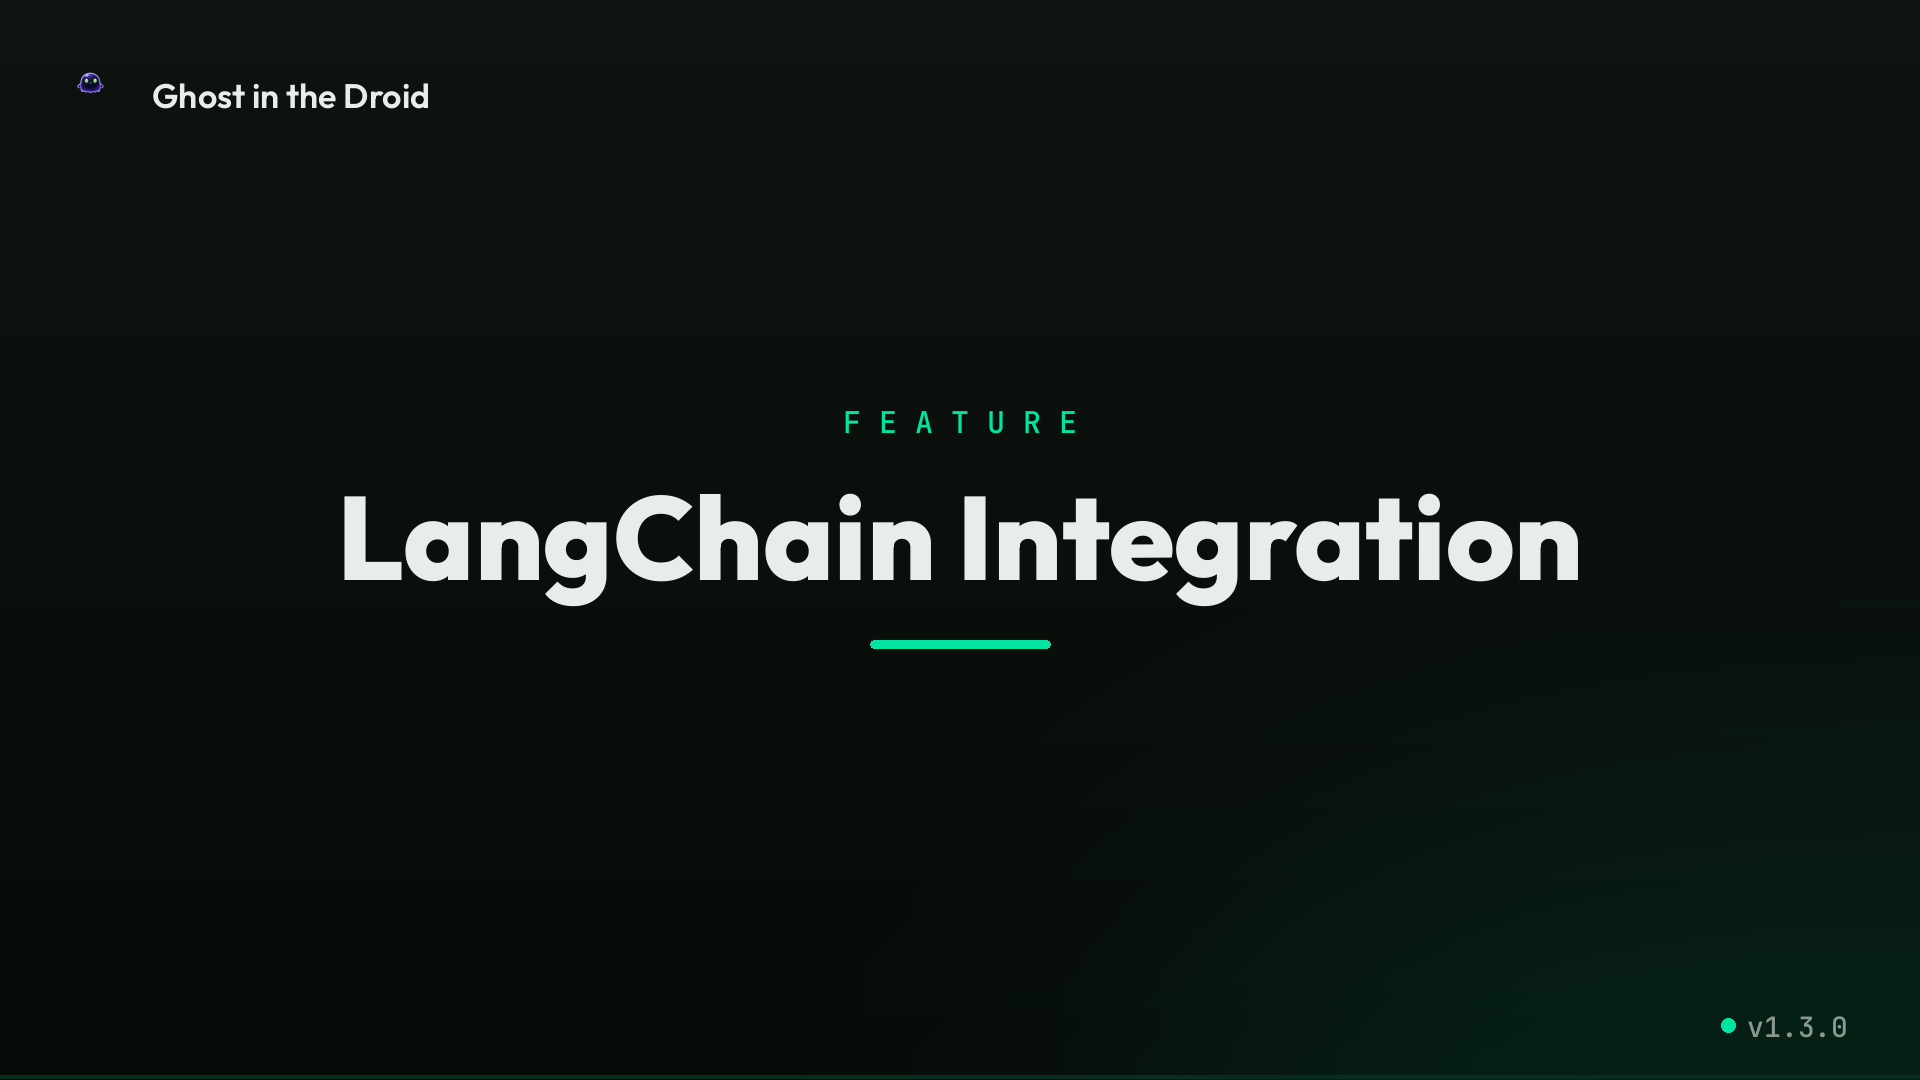
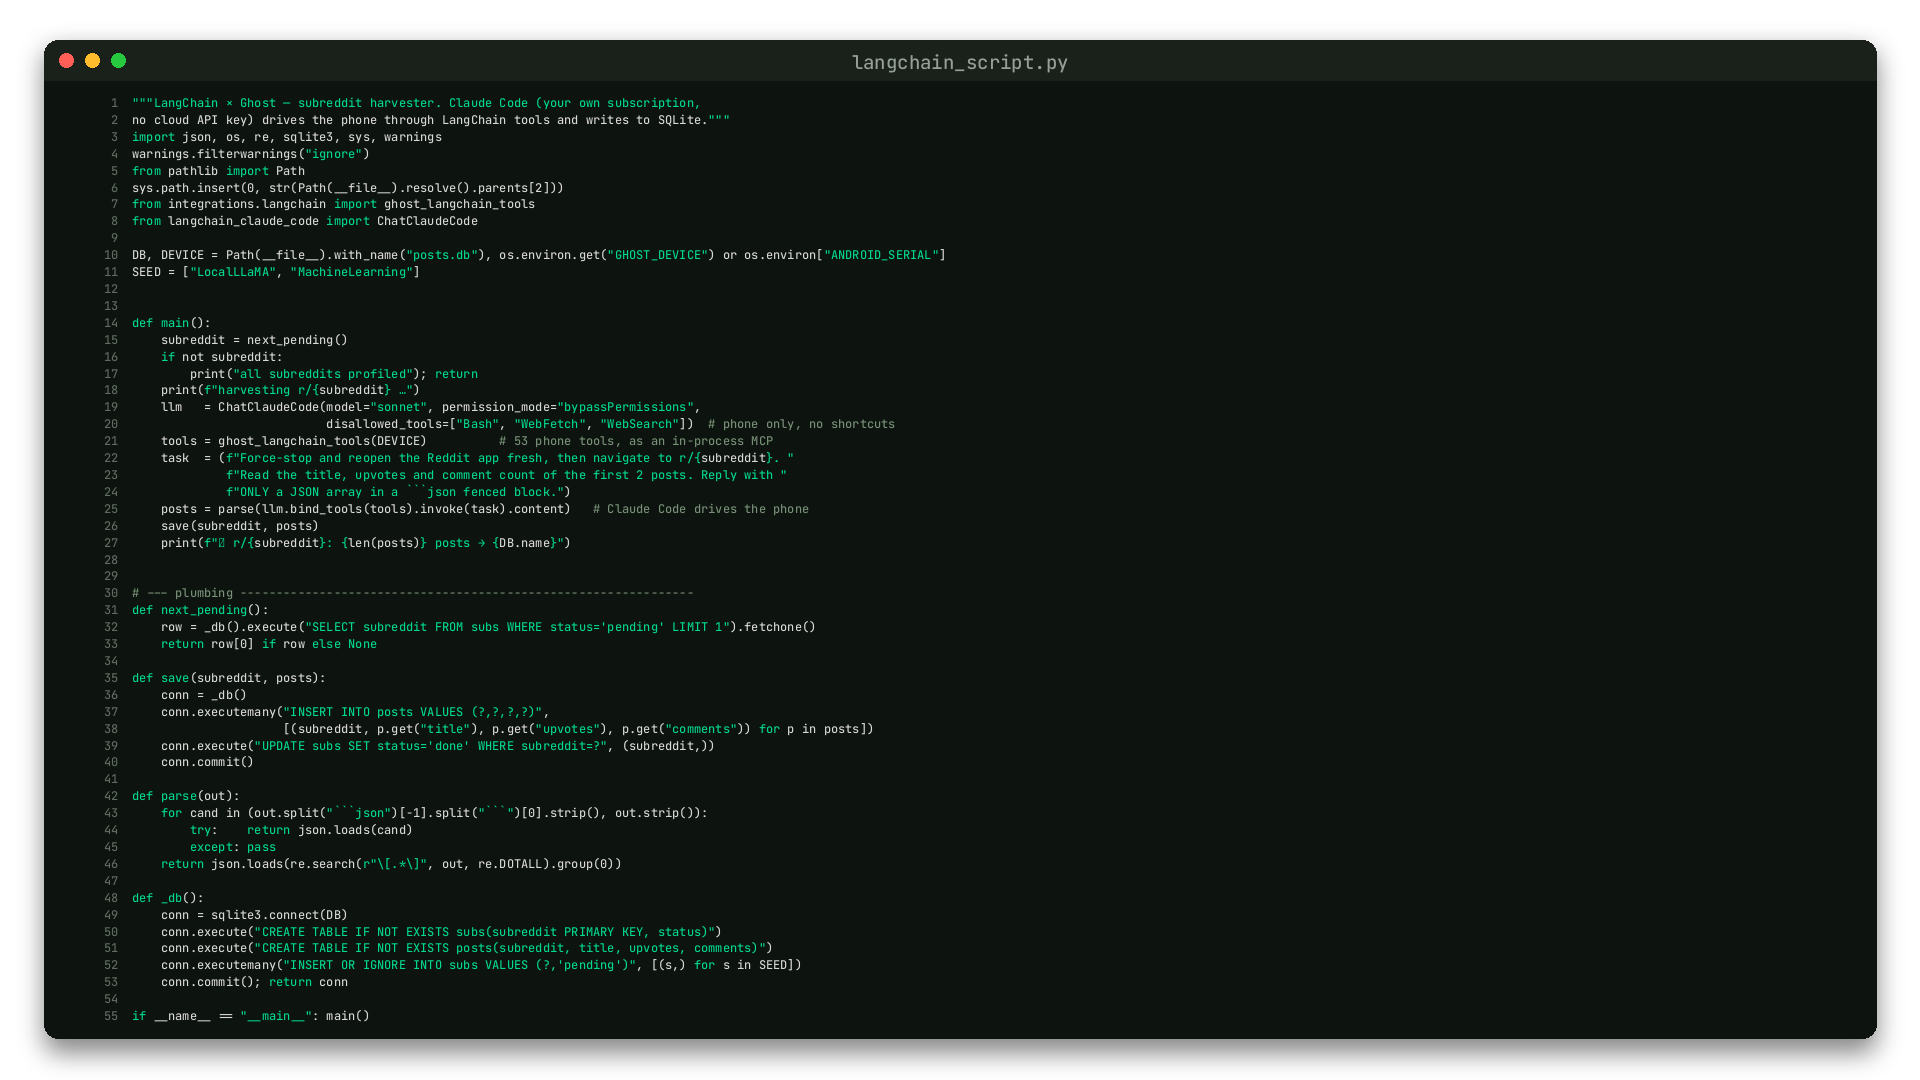
langchain demo: live-render code pane, regen intro, fix loop reliability
- record_demo: LIVE-RENDER the code pane from code_pane_source every record
  (render_codepane.py) — a baked asset can never go stale against the script again
- render_codepane.py: draw the def main() segment (or --full) as a macOS window in
  the Ghost-green palette; auto-fits the current source
- Regenerate intro (motion + static) from the current script — kills the old
  OpenRouter/create_react_agent reveal that was still shipping
- langchain_script: parse() returns [] instead of crashing on a no-JSON reply
- spec: reset the HOST posts.db in the loop exec_cmd (setup shell runs on-device,
  so it never cleared it) — run 1 now gets LocalLLaMA, run 2 MachineLearning

diff --git a/scripts/showcase/render_codepane.py b/scripts/showcase/render_codepane.py
@@ -1,0 +1,150 @@
+#!/usr/bin/env python3
+"""Live-render the showcase code pane from source.
+
+Draws the ``def main()`` segment of a Python file as a macOS-style terminal
+window PNG, so the code pane in a demo can never drift out of sync with the
+script it is supposed to mirror (the old baked asset silently shipped an
+OpenRouter version of the code long after the script had moved on).
+
+Usage:  render_codepane.py <source.py> <out.png> [--title NAME]
+Geometry + palette match codepane-langchain-v3.png so the compositor is unchanged.
+"""
+import sys
+from pathlib import Path
+
+from PIL import Image, ImageDraw, ImageFilter, ImageFont
+from pygments import lex
+from pygments.lexers import PythonLexer
+from pygments.token import Comment, Keyword, Name, Number, String
+
+REPO = Path(__file__).resolve().parents[2]
+FONT_PATH = REPO / "site/public/showcase/_brand/fonts/JetBrainsMono[wght].ttf"
+
+# Ghost-brand palette, sampled straight from the shipped assets.
+BG      = (13, 19, 14)      # window / code background
+TITLE   = (26, 33, 27)      # title bar
+TEXT    = (216, 216, 216)   # default code text
+GREEN   = (0, 216, 144)     # keywords, strings, def-names (brand accent)
+COMMENT = (120, 144, 120)   # comments
+LINENO  = (96, 108, 98)     # gutter line numbers
+TITLE_FG = (150, 160, 152)  # filename in the title bar
+LIGHTS  = [(255, 95, 86), (255, 189, 46), (39, 201, 63)]  # macOS traffic lights
+
+# Full 1920x1080 canvas; window box matches codepane-langchain-v3.png exactly.
+CANVAS  = (1920, 1080)
+WIN     = (32, 742, 1392, 1041)   # x0, y0, x1, y1  — small code pane (main segment)
+FULL_WIN = (44, 40, 1876, 1038)   # big window for the intro (whole file)
+TITLE_H = 40
+RADIUS  = 14
+PAD_X   = 30      # left padding inside code area (before gutter)
+PAD_TOP = 14      # top padding inside code area
+GUTTER  = 58      # width reserved for line numbers
+
+
+def color_for(tok):
+    if tok in Comment:       return COMMENT
+    if tok in Keyword:       return GREEN
+    if tok in String:        return GREEN
+    if tok in Name.Function: return GREEN
+    if tok in Number:        return TEXT
+    return TEXT
+
+
+def extract_main(src_path):
+    """Return (lines, first_lineno) for the def main() block."""
+    lines = Path(src_path).read_text().splitlines()
+    start = next(i for i, l in enumerate(lines) if l.startswith("def main"))
+    end = start + 1
+    while end < len(lines) and not (
+        lines[end].startswith("def ") or lines[end].startswith("#")
+    ):
+        end += 1
+    seg = lines[start:end]
+    while seg and not seg[-1].strip():
+        seg.pop()
+    return seg, start + 1
+
+
+def extract_full(src_path):
+    """Return (lines, 1) for the whole file (trailing blanks trimmed)."""
+    lines = Path(src_path).read_text().splitlines()
+    while lines and not lines[-1].strip():
+        lines.pop()
+    return lines, 1
+
+
+def load_font(size):
+    f = ImageFont.truetype(str(FONT_PATH), size)
+    try:
+        f.set_variation_by_axes([460])   # medium weight for legibility
+    except Exception:
+        pass
+    return f
+
+
+def render(src_path, out_path, title="langchain_script.py", full=False):
+    seg, first_lineno = extract_full(src_path) if full else extract_main(src_path)
+    n = len(seg)
+    x0, y0, x1, y1 = FULL_WIN if full else WIN
+    win_w, win_h = x1 - x0, y1 - y0
+    code_h = win_h - TITLE_H - 2 * PAD_TOP
+
+    # Auto-fit font so all n lines fit the code area.
+    pitch = code_h / n
+    fsize = max(12, int(pitch * 0.74))
+    font = load_font(fsize)
+    ascent, descent = font.getmetrics()
+    char_w = font.getlength("M")
+
+    img = Image.new("RGBA", CANVAS, (0, 0, 0, 0))
+    d = ImageDraw.Draw(img)
+
+    # Soft drop shadow, then the window body.
+    shadow = Image.new("RGBA", CANVAS, (0, 0, 0, 0))
+    ImageDraw.Draw(shadow).rounded_rectangle(
+        [x0, y0 + 10, x1, y1 + 14], RADIUS, fill=(0, 0, 0, 120))
+    img.alpha_composite(shadow.filter(ImageFilter.GaussianBlur(12)))
+
+    d.rounded_rectangle([x0, y0, x1, y1], RADIUS, fill=BG + (255,))
+    # Title bar (rounded top, square bottom via a covering rect).
+    d.rounded_rectangle([x0, y0, x1, y0 + TITLE_H], RADIUS, fill=TITLE + (255,))
+    d.rectangle([x0, y0 + TITLE_H - RADIUS, x1, y0 + TITLE_H], fill=TITLE + (255,))
+
+    # Traffic lights.
+    cy = y0 + TITLE_H // 2
+    for i, col in enumerate(LIGHTS):
+        cx = x0 + 22 + i * 26
+        d.ellipse([cx - 7, cy - 7, cx + 7, cy + 7], fill=col + (255,))
+
+    # Centered filename.
+    tfont = load_font(19)
+    tw = tfont.getlength(title)
+    d.text(((x0 + x1) / 2 - tw / 2, cy - 11), title, font=tfont, fill=TITLE_FG + (255,))
+
+    # Code, line by line, syntax highlighted.
+    code_x = x0 + PAD_X + GUTTER
+    y = y0 + TITLE_H + PAD_TOP
+    for idx, line in enumerate(seg):
+        ln = str(first_lineno + idx)
+        lnw = font.getlength(ln)
+        d.text((x0 + PAD_X + GUTTER - 14 - lnw, y), ln, font=font, fill=LINENO + (255,))
+        x = code_x
+        for tok, val in lex(line + "\n", PythonLexer()):
+            val = val.rstrip("\n")
+            if not val:
+                continue
+            d.text((x, y), val, font=font, fill=color_for(tok) + (255,))
+            x += font.getlength(val)
+        y += pitch
+
+    img.save(out_path)
+    print(f"[render_codepane] {out_path} — {n} lines (L{first_lineno}-"
+          f"{first_lineno + n - 1}), font {fsize}px")
+
+
+if __name__ == "__main__":
+    args = [a for a in sys.argv[1:] if not a.startswith("--")]
+    title = next((a.split("=", 1)[1] for a in sys.argv[1:]
+                  if a.startswith("--title=")), "langchain_script.py")
+    full = "--full" in sys.argv
+    render(args[0], args[1], title, full=full)

diff --git a/scripts/record_demo.py b/scripts/record_demo.py
@@ -689,12 +689,25 @@ def composite(spec: dict, workdir: Path, term_mp4: Path, phone_mp4: Path,
     mascot_l = BRAND_DIR / "cprime-mascot.png"  # standard layout: peeks from behind window
     # 3-pane motion layout (spec: layout: three_window): short terminal window
     # (term_rows) fades in as it "pops" at the seam, code pane overlaid below,
-    # framed phone SLIDES in from off-canvas right. The code pane is a
-    # pre-rendered RGBA asset owned by design-review (codepane-<demo>-v3.png),
-    # NOT live-rendered from code_pane_source — that key names the truth the
-    # asset must mirror, for the record + reviewers, not a render input.
-    code_pane = spec.get("code_pane_asset",
-                         f"codepane-{demo}-v3.png") if three_pane else None
+    # framed phone SLIDES in from off-canvas right.
+    #
+    # The code pane is LIVE-RENDERED from code_pane_source every record, so it can
+    # never drift out of sync with the code it mirrors (a baked asset once shipped
+    # a stale OpenRouter version of the script long after the code had moved on).
+    # If no code_pane_source is given, fall back to a baked code_pane_asset.
+    code_pane_path = None
+    if three_pane:
+        src = spec.get("code_pane_source")
+        if src:
+            code_pane_path = workdir / "codepane.png"
+            run([sys.executable,
+                 str(Path(__file__).parent / "showcase" / "render_codepane.py"),
+                 str(REPO_ROOT / src), str(code_pane_path),
+                 f"--title={Path(src).name}"], "live-render code pane")
+        else:
+            code_pane_path = BRAND_DIR / spec.get("code_pane_asset",
+                                                  f"codepane-{demo}-v3.png")
+    code_pane = code_pane_path  # truthy iff 3-pane (drives chrome + input [8])
     chrome = BRAND_DIR / (
         "terminal-frame-macos-small.png" if code_pane else "terminal-frame-macos.png")
 
@@ -755,7 +768,7 @@ def composite(spec: dict, workdir: Path, term_mp4: Path, phone_mp4: Path,
         "-i", str(mascot_l),
     ]
     if code_pane:
-        inputs += ["-i", str(BRAND_DIR / code_pane)]  # input [8]
+        inputs += ["-i", str(code_pane_path)]  # input [8] (live-rendered or baked)
     if radius > 0:
         inputs += ["-loop", "1", "-t", str(content_s), "-i", str(phone_mask)]  # [8]/[9]
     run(["ffmpeg", "-y", *inputs,

diff --git a/scripts/showcase/langchain_script.py b/scripts/showcase/langchain_script.py
@@ -43,7 +43,8 @@ def parse(out):
     for cand in (out.split("```json")[-1].split("```")[0].strip(), out.strip()):
         try:    return json.loads(cand)
         except: pass
-    return json.loads(re.search(r"\[.*\]", out, re.DOTALL).group(0))
+    m = re.search(r"\[.*\]", out, re.DOTALL)   # any JSON array anywhere
+    return json.loads(m.group(0)) if m else []
 
 def _db():
     conn = sqlite3.connect(DB)